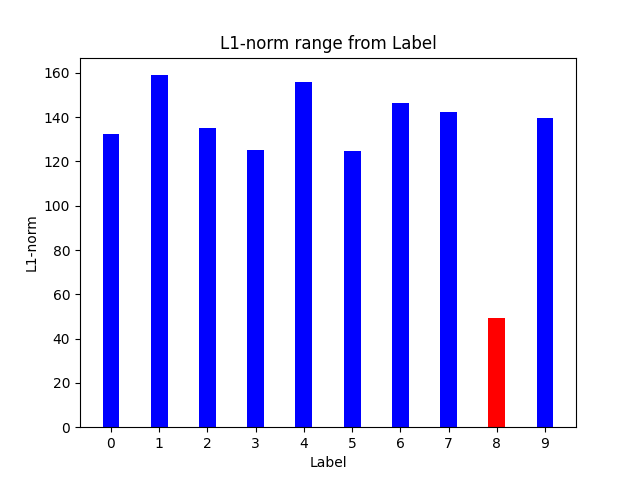
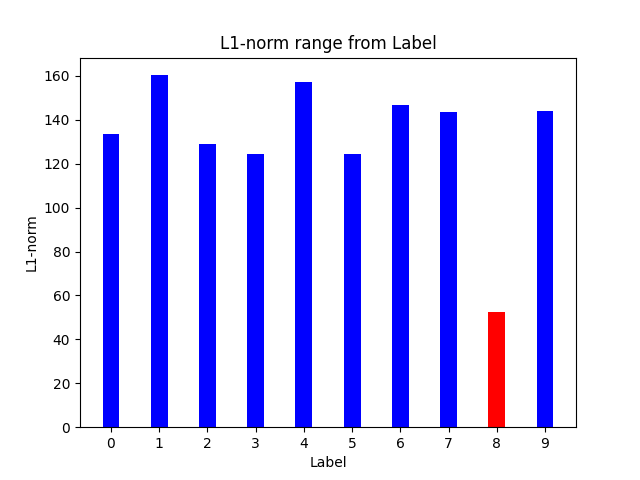
补充nc与MESA方法检测后评价指标在前端的显示

diff --git a/templates/project.html b/templates/project.html
@@ -672,7 +672,10 @@
 <!--                            <iframe name="content_frame" marginwidth=0 marginheight=0 width=100% height=500 src="/resultNCtrigger" frameborder=0></iframe>-->
 <!--                        </div>-->
                         <div class="form-group">
-                            <font face="黑体" size="3">嫌疑程度最高标签的逆向触发器结果：{{flask_nc_labels}}</font>
+                            <font face="黑体" size="3">嫌疑后门标签：{{flask_nc_labels}}|相应标签L1范数：{{flask_nc_norms}}</font>
+                        </div>
+                        <div class="form-group">
+                            <font face="黑体" size="3">嫌疑程度最高标签的逆向触发器结果：</font>
                             <iframe name="content_frame" marginwidth=0 marginheight=0 width=100% height=500 src="/resultNCmask" frameborder=0></iframe>
                         </div>
                         <div class="form-group">
@@ -717,7 +720,10 @@
                         </div>
 
                         <div class="form-group">
-                            <font face="黑体" size="3">嫌疑程度最高标签的逆向触发器结果：{{flask_mesa_labels}}</font>
+                            <font face="黑体" size="3">嫌疑后门标签：{{flask_mesa_labels}}|相应标签ASR：{{flask_mesa_asrs}}</font>
+                        </div>
+                        <div class="form-group">
+                            <font face="黑体" size="3">嫌疑程度最高标签的逆向触发器结果：</font>
                             <iframe name="content_frame" marginwidth=0 marginheight=0 width=100% height=500 src="/resultMESAtrigger" frameborder=0></iframe>
                         </div>
                         <div class="form-group">

diff --git a/app.py b/app.py
@@ -509,8 +509,11 @@ def project():
                 train_PUBFIG.reverse_engineer(param)
             with open('NeuralCleanse/BackdoorLabel/' + database + '_sorted_labels.txt', 'r') as f:
                 content = f.read().splitlines()
-                nc_sorted_labels = list(map(int, content))
-            return render_template('project.html', flask_nc_labels=nc_sorted_labels)
+                nc_sorted_labels = list(map(int, content)) # 将 content 列表中的每个元素转换为整数类型
+            with open('NeuralCleanse/BackdoorLabel/' + database + '_sorted_norms.txt', 'r') as f:
+                content = f.read().splitlines()
+                nc_sorted_norms = list(map(float, content)) # 将 content 列表中的每个元素转换为浮点数类型
+            return render_template('project.html', flask_nc_labels=nc_sorted_labels , flask_nc_norms=nc_sorted_norms)
 
         elif (m == '9'):  # MESA
             mesa_epo = int(request.form.get('mesa_epo')) # 传入三个参数 epo,alpha,beta
@@ -545,7 +548,10 @@ def project():
             with open('MESA/BackdoorLabel/' + database + '_sorted_labels.txt', 'r') as f:
                 content = f.read().splitlines()
                 mesa_sorted_labels = list(map(int, content))
-            return render_template('project.html', flask_mesa_labels=mesa_sorted_labels)
+            with open('MESA/BackdoorLabel/' + database + '_sorted_asrs.txt', 'r') as f:
+                content = f.read().splitlines()
+                mesa_sorted_asrs = list(map(float, content))
+            return render_template('project.html', flask_mesa_labels=mesa_sorted_labels, flask_mesa_asrs=mesa_sorted_asrs)
 
         elif (m == '10'):  # 后门攻击
 

diff --git a/MESA/mymain_pubfig.py b/MESA/mymain_pubfig.py
@@ -445,6 +445,12 @@ def search(alpha,beta,target,loader,G,M,B,device,num_epochs,bs,trigger):
         for label in sorted_labels:
             f.write(str(label) + '\n')
 
+    asrs = [num for i, num in enumerate(y) if num >= threshold]
+    sorted_asrs = sorted(asrs, reverse=True)
+    with open('MESA/BackdoorLabel/PUBFIG_sorted_asrs.txt', 'w') as f:
+        for asr1 in sorted_asrs:
+            f.write(str(asr1) + '\n')
+
     for i in range(len(target)):
         if y[i] >= threshold:
             plt.bar(name_list[i], y[i], color='red', width=0.35)

diff --git a/MESA/mymain_MNIST.py b/MESA/mymain_MNIST.py
@@ -489,6 +489,12 @@ def search(alpha,beta,target,loader,G,M,B,device,num_epochs,bs,trigger):
         for label in sorted_labels:
             f.write(str(label) + '\n')
 
+    asrs = [num for i, num in enumerate(y) if num >= threshold]
+    sorted_asrs = sorted(asrs, reverse=True)
+    with open('MESA/BackdoorLabel/MNIST_sorted_asrs.txt', 'w') as f:
+        for asr1 in sorted_asrs:
+            f.write(str(asr1) + '\n')
+
     for i in range(len(target)):
         if y[i] >= threshold:
             plt.bar(name_list[i], y[i], color='red', width=0.35)

diff --git a/NeuralCleanse/train_PUBFIG.py b/NeuralCleanse/train_PUBFIG.py
@@ -150,6 +150,12 @@ def reverse_engineer(param):
         for label in sorted_labels:
             f.write(str(label) + '\n')
 
+    norms = [num for i, num in enumerate(norm_list) if num < threshold]
+    sorted_norms = sorted(norms)
+    with open('NeuralCleanse/BackdoorLabel/PUBFIG_sorted_norms.txt', 'w') as f:
+        for norm in sorted_norms:
+            f.write(str(norm) + '\n')
+
     for i in range(len(y)):
         if y[i] >= threshold:
             plt.bar(name_list[i], y[i], color='blue', width=0.35)

diff --git a/NeuralCleanse/train_GTSRB.py b/NeuralCleanse/train_GTSRB.py
@@ -154,6 +154,12 @@ def reverse_engineer(param):
         for label in sorted_labels:
             f.write(str(label) + '\n')
 
+    norms = [num for i, num in enumerate(norm_list) if num < threshold]
+    sorted_norms = sorted(norms)
+    with open('NeuralCleanse/BackdoorLabel/GTSRB_sorted_norms.txt', 'w') as f:
+        for norm in sorted_norms:
+            f.write(str(norm) + '\n')
+
     for i in range(len(y)):
         if y[i] >= threshold:
             plt.bar(name_list[i], y[i], color='blue', width=0.35)

diff --git a/NeuralCleanse/train_MNIST.py b/NeuralCleanse/train_MNIST.py
@@ -218,6 +218,12 @@ def reverse_engineer(param):
         for label in sorted_labels:
             f.write(str(label) + '\n')
 
+    norms = [num for i, num in enumerate(norm_list) if num < threshold]
+    sorted_norms = sorted(norms)
+    with open('NeuralCleanse/BackdoorLabel/MNIST_sorted_norms.txt', 'w') as f:
+        for norm in sorted_norms:
+            f.write(str(norm) + '\n')
+
     for i in range(len(y)):
         if y[i] >= threshold:
             plt.bar(name_list[i], y[i], color='blue', width=0.35)
